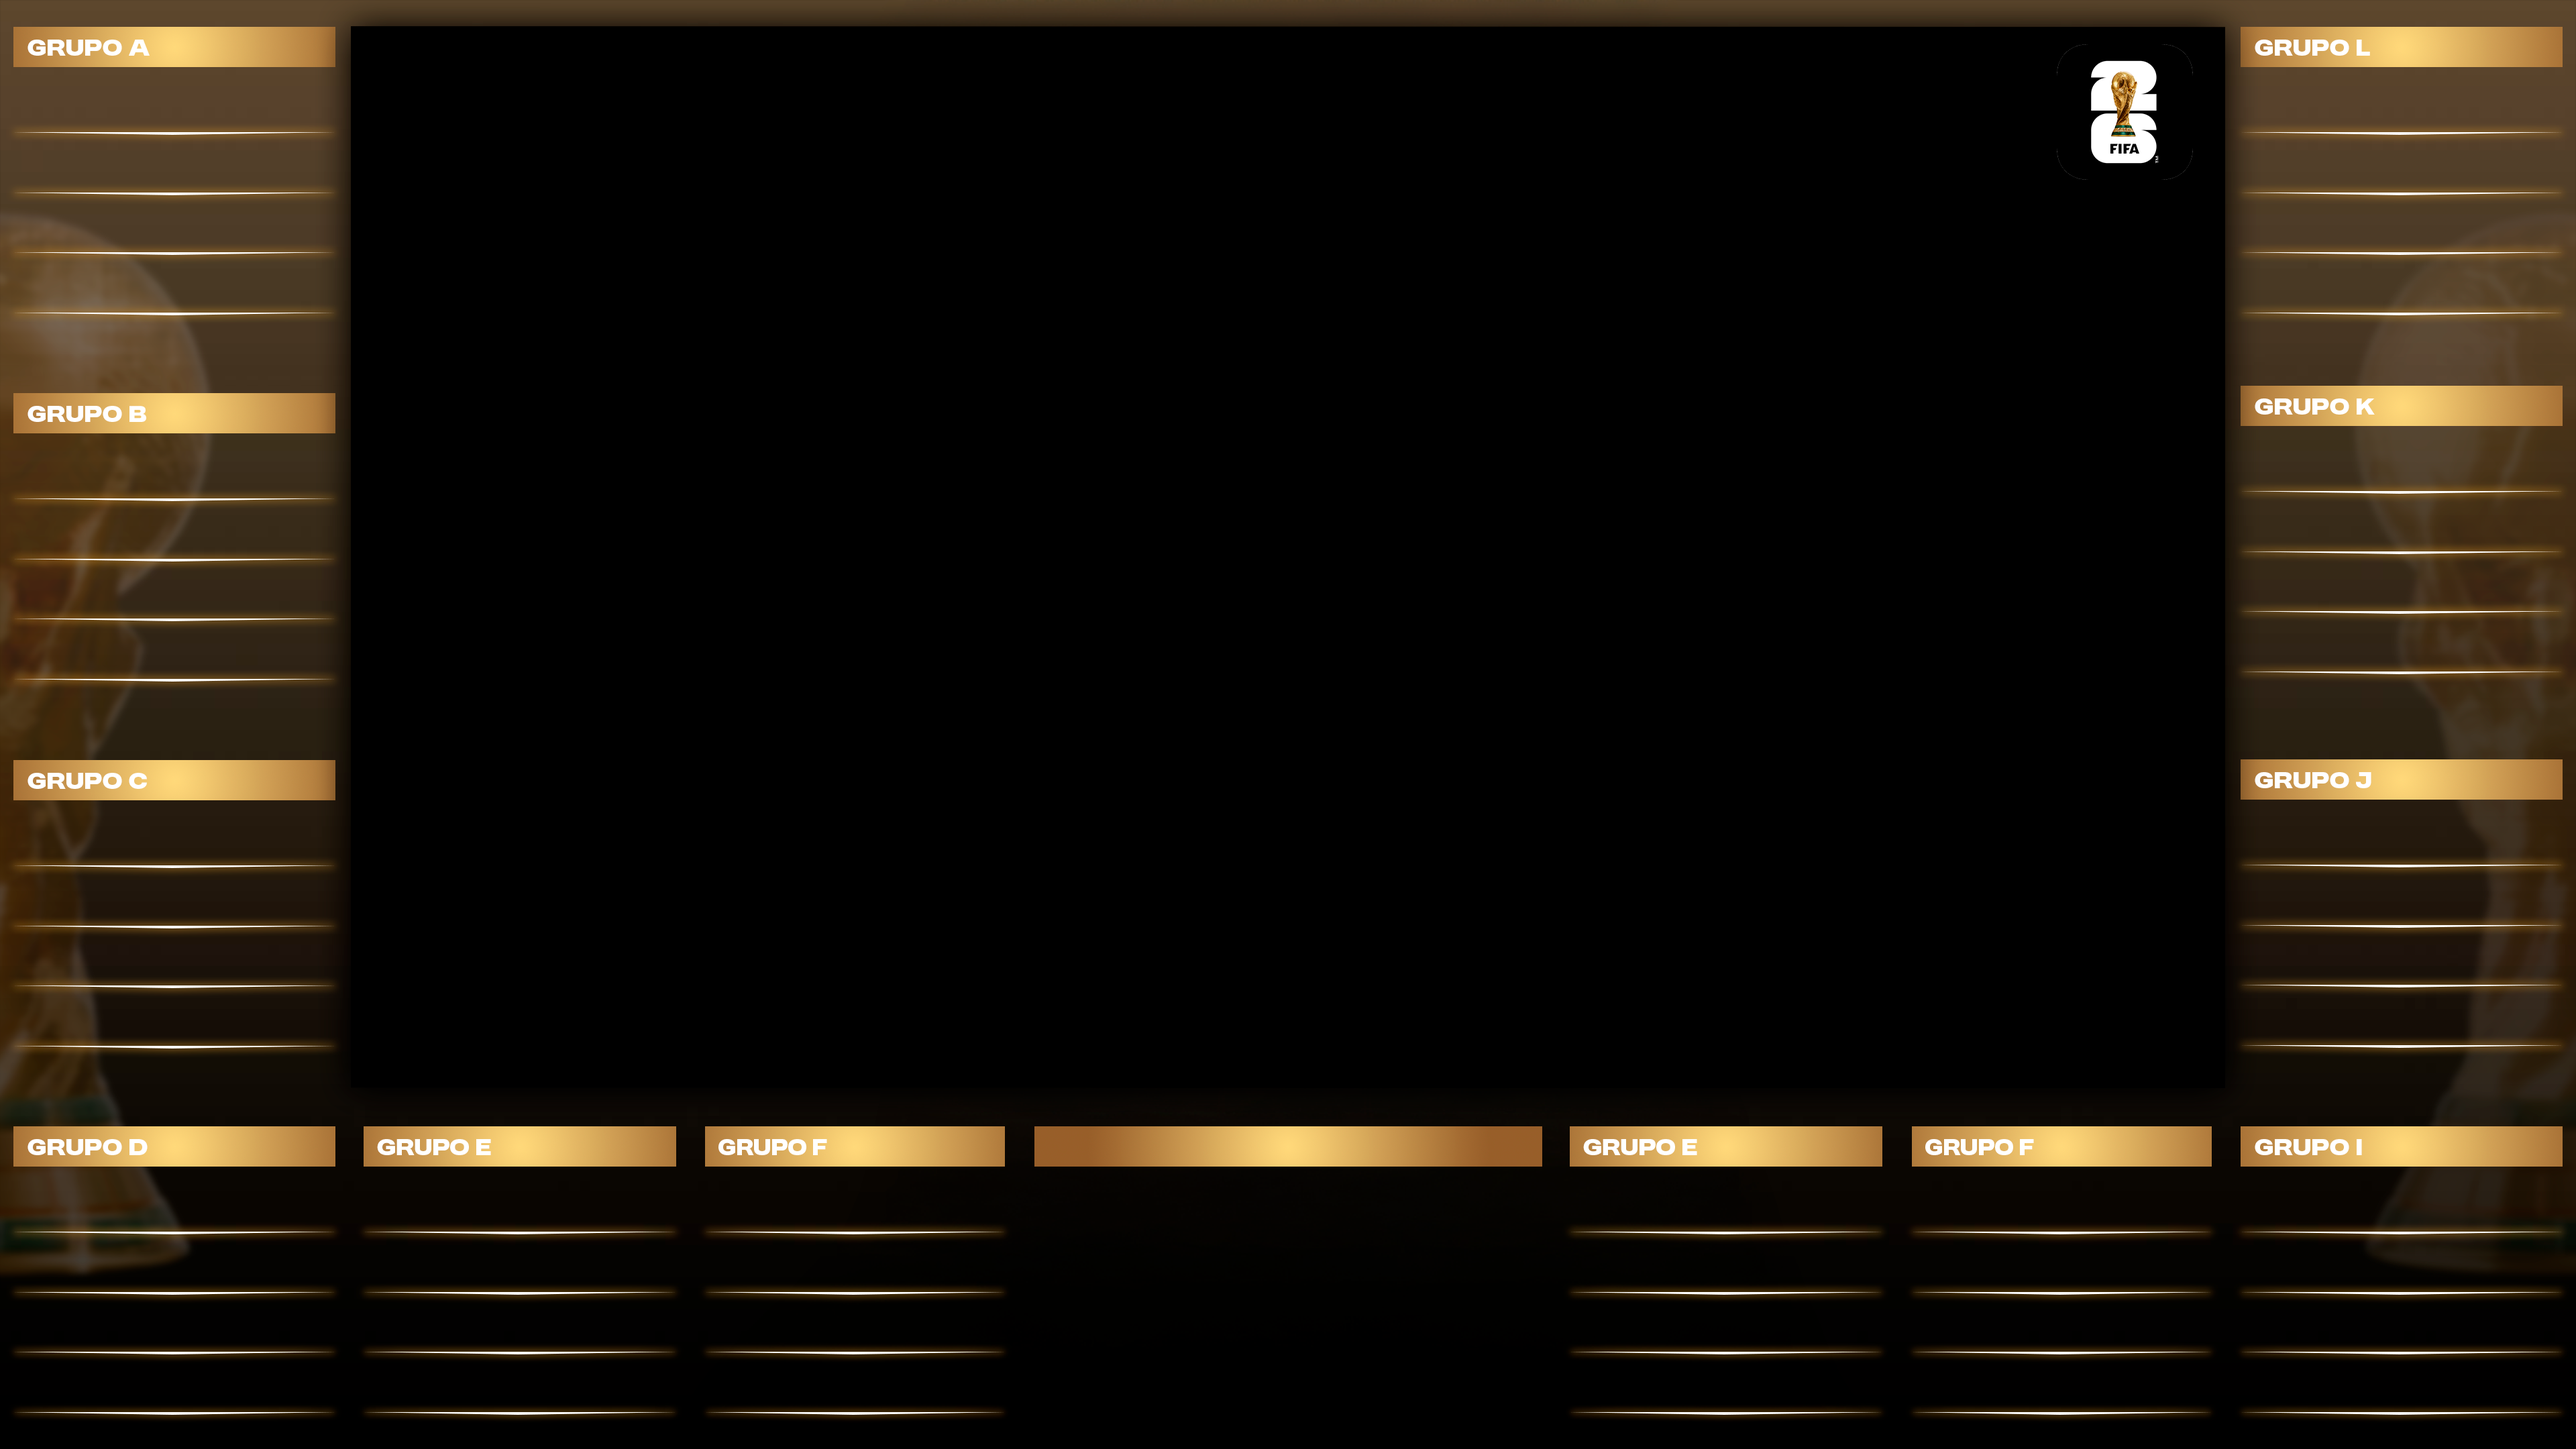
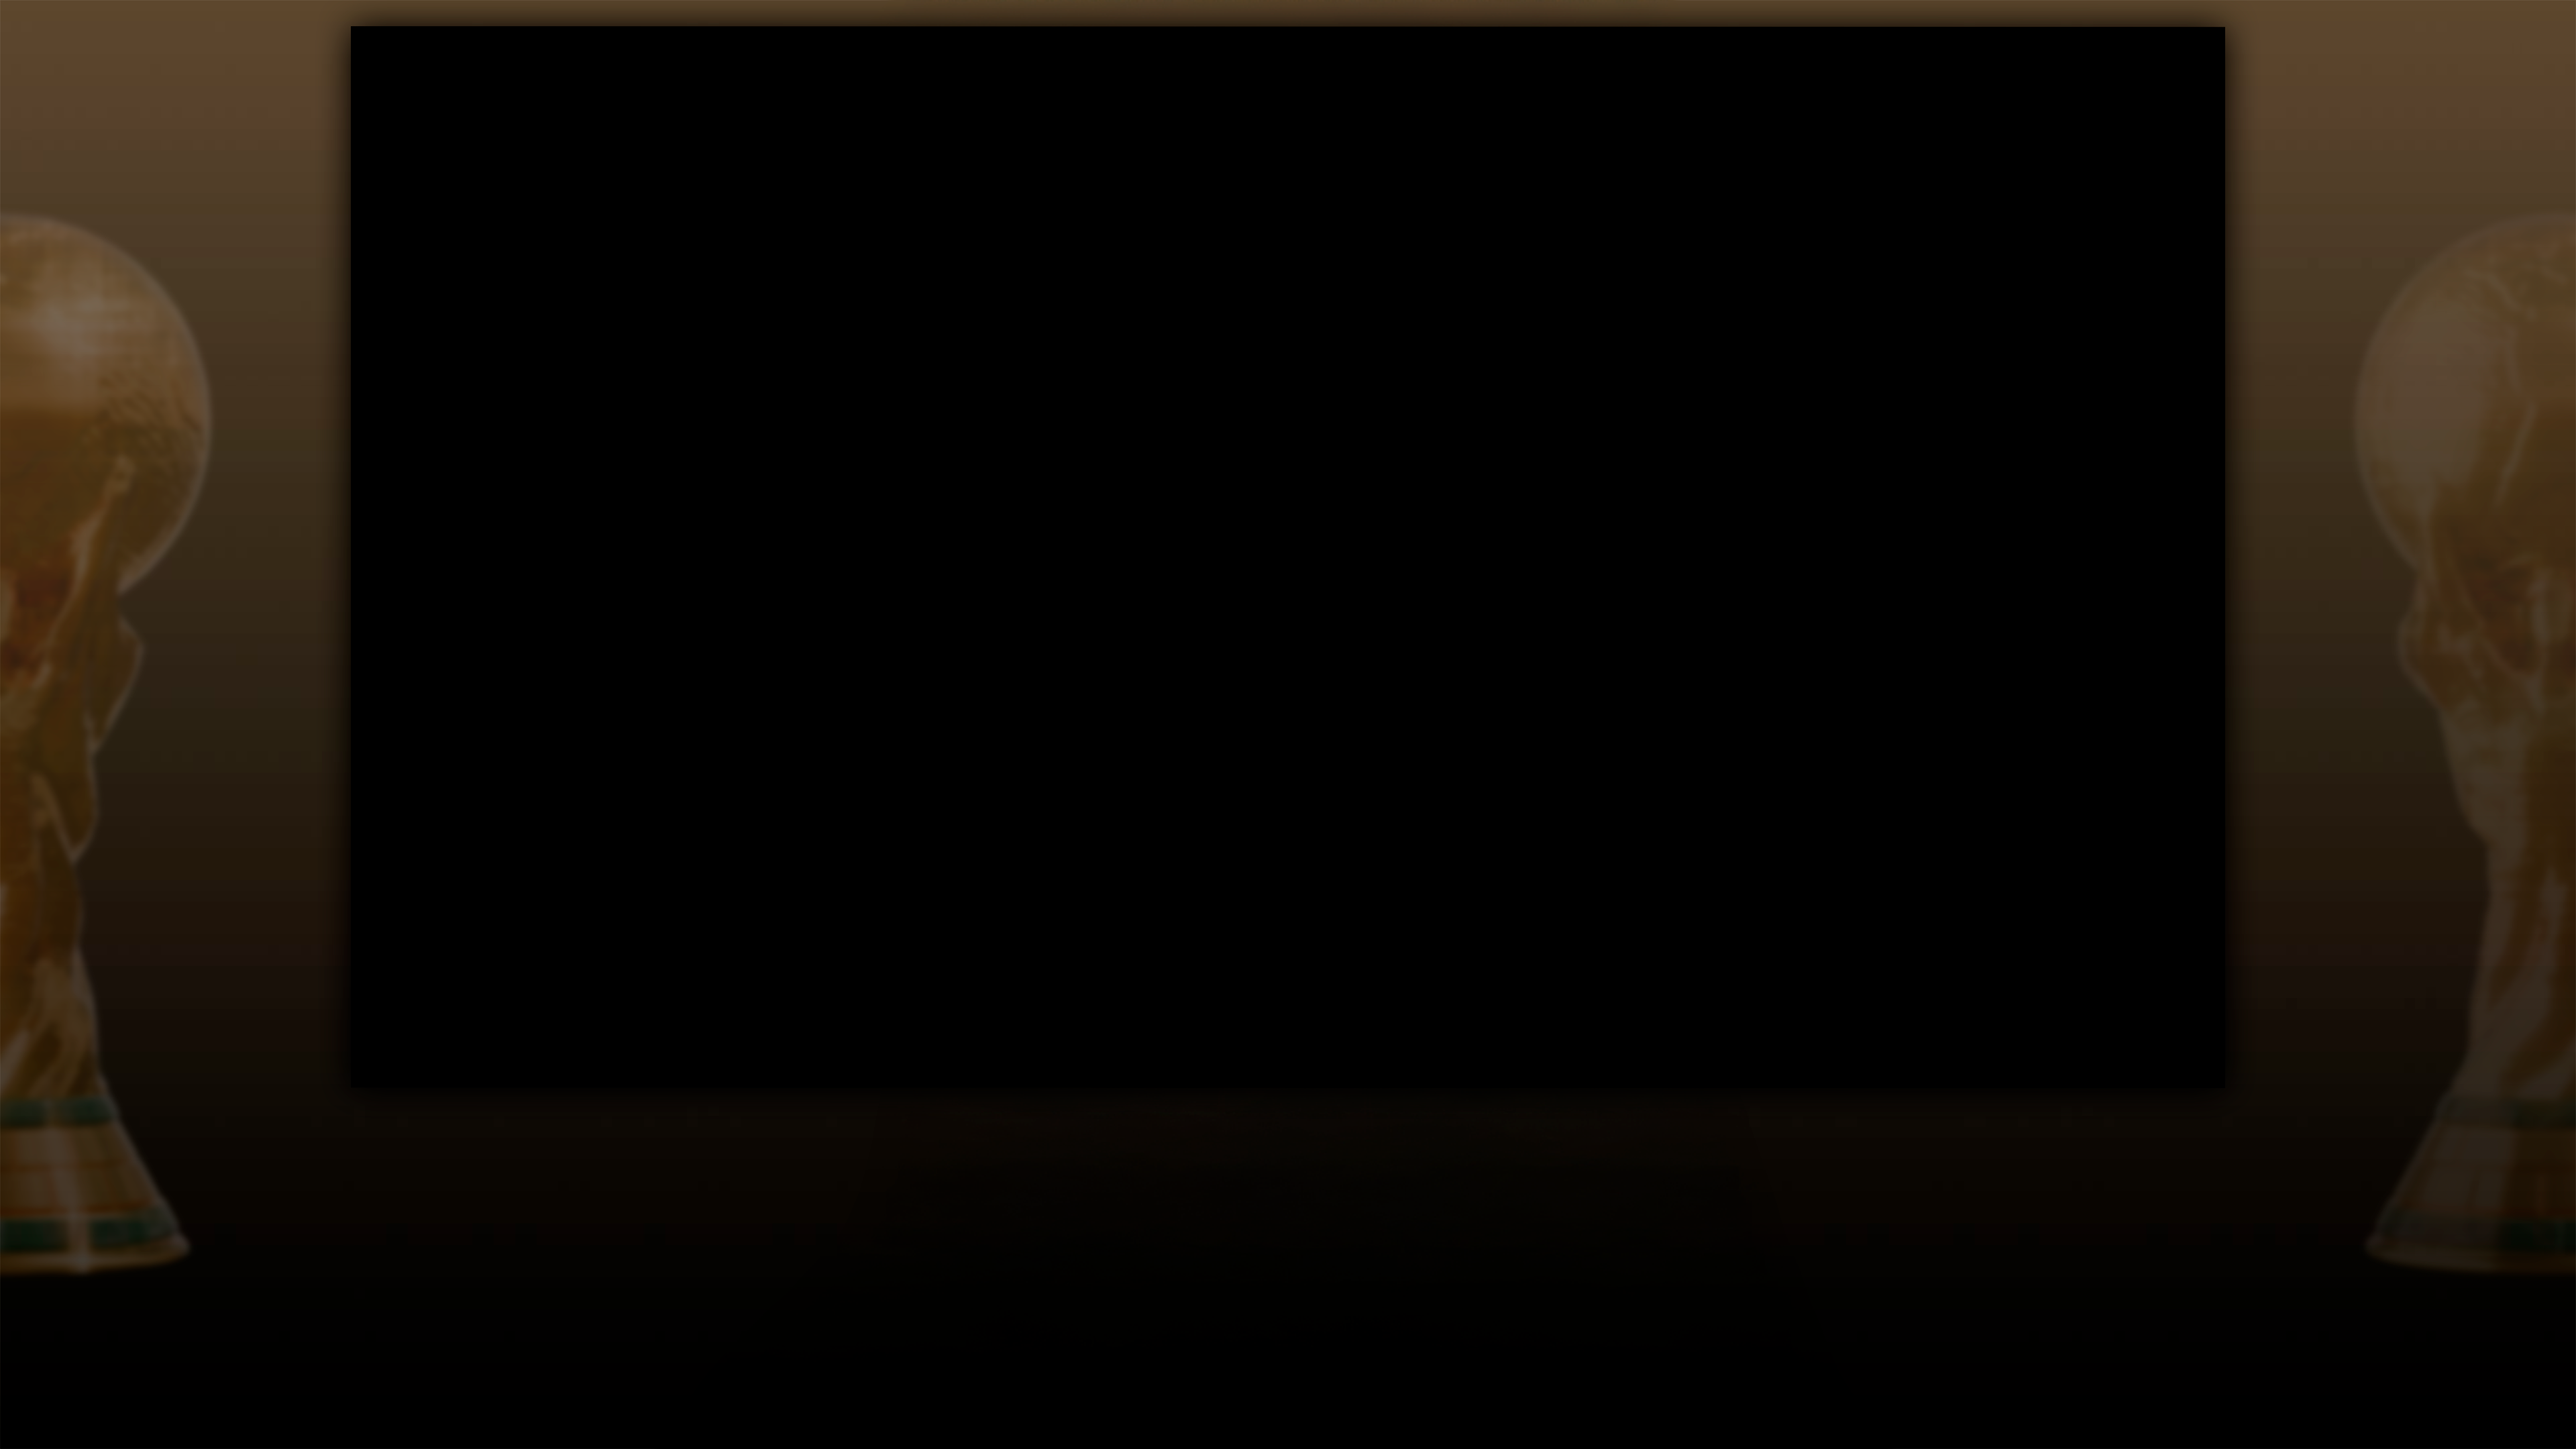
Add a foreground image layer with titles and text
Adds a new foreground layer with the "frente.png" image, positioned above the glow effect but below interactive elements, using z-index 3.

Replit-Commit-Author: Agent
Replit-Commit-Session-Id: 71c4c04f-999e-4888-ab3d-cec259ab51b6
Replit-Commit-Checkpoint-Type: full_checkpoint
Replit-Commit-Event-Id: 3f093426-a26d-438d-8dd6-ee42fd9d2498
Replit-Commit-Screenshot-Url: https://storage.googleapis.com/screenshot-production-us-central1/7b43ac34-7df8-4c46-9ac8-5c713f8502e8/71c4c04f-999e-4888-ab3d-cec259ab51b6/cpIIkcu

diff --git a/overlay3.html b/overlay3.html
@@ -209,6 +209,29 @@
     #bg-lines {
       transition: opacity 0.6s ease;
     }
+    
+    /* Capa frontal con títulos y textos (z-index: 3) */
+    #foreground-layer {
+      position: absolute;
+      top: 0;
+      left: 0;
+      width: 100%;
+      height: 100%;
+      z-index: 3;
+      pointer-events: none;
+      display: flex;
+      justify-content: center;
+      align-items: center;
+    }
+    
+    #foreground-layer img {
+      position: absolute;
+      width: 100%;
+      height: 100%;
+      object-fit: contain;
+      max-width: 177.78vh;
+      max-height: 100vh;
+    }
   </style>
 </head>
 <body>
@@ -228,6 +251,11 @@
   
   <!-- Resplandor de colores de bandera (z-index: 2) -->
   <div id="country-glow" class="country-glow"></div>
+  
+  <!-- Capa frontal con títulos y textos (z-index: 3) -->
+  <div id="foreground-layer">
+    <img id="fg-frente" src="/w2560/frente.png" alt="" />
+  </div>
   
   <!-- Contenedor de banderas de bombos en CSS -->
   <div id="bombo-flags-container"></div>
